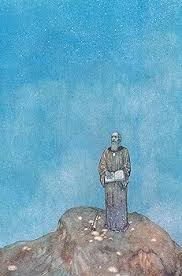
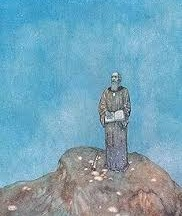
Crop monk image to frame full figure, center background

diff --git a/index.html b/index.html
@@ -89,7 +89,7 @@
             z-index: -1;
             background-image: url('monk.jpg');
             background-size: cover;
-            background-position: center 40%;
+            background-position: center center;
             background-repeat: no-repeat;
             opacity: 0.18;
         }
